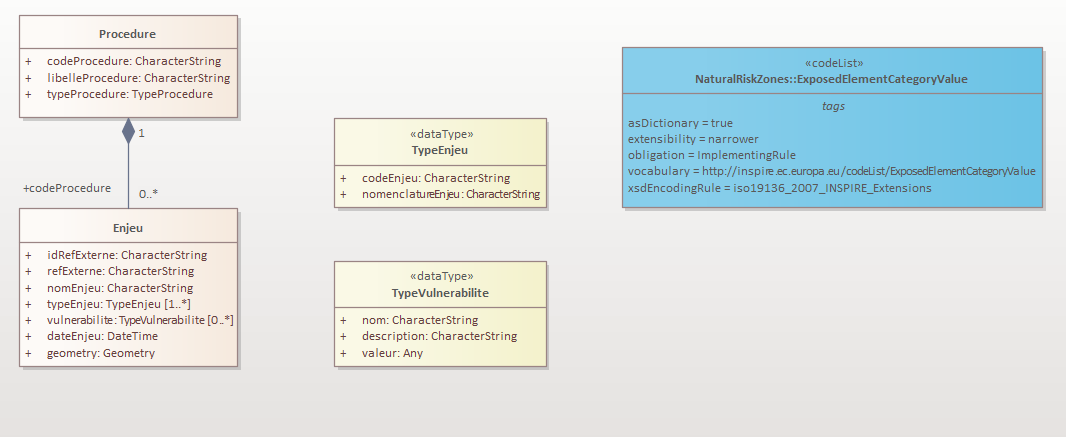
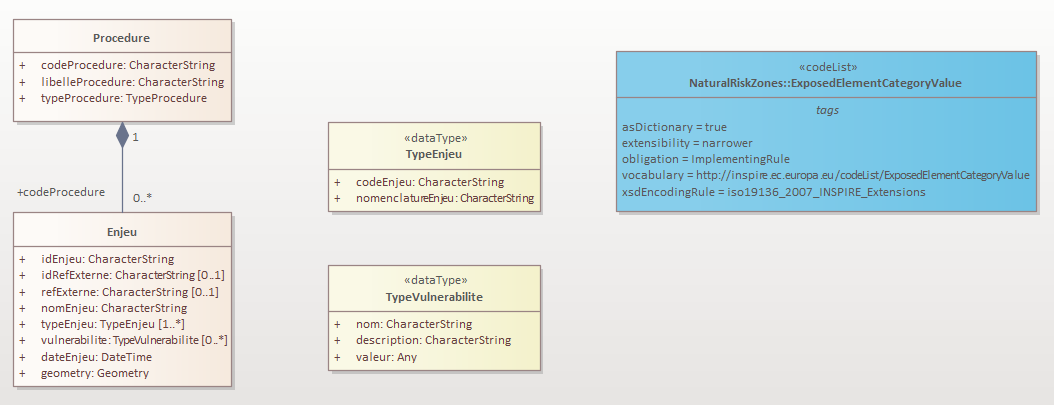
Ajout identifiant idEnjeu pour gérer les saisies spécifiques d'enjeux

diff --git a/standards/Geostandards-risques-commun/Document.md b/standards/Geostandards-risques-commun/Document.md
@@ -683,16 +683,17 @@ La définition de ces nomenclatures sera proposée dans les profils applicatifs 
 
 **Titre** : Enjeu
 
-**Définition** : La classe Enjeu permet de faire état des objets d'enjeu qui sont à représenter dans le cadre de la procédure de prévention des risques. Elle permet d'intégrer des objets issus de référentiels externes ou d'objet en indiquant à minima un nom, le rattachement à une ou plusieurs nomenclatures d'enjeu, une date de collecte, une information sur les vulnérabilités de l'enjeu et une géométrie si on souhaite le faire figurer dans une cartographie et en précisant le nom du référentiel d'origine et l'identifiant de l'objet dans ce référentiel. 
+**Définition** : La classe Enjeu permet de faire état des objets d'enjeu qui sont à représenter dans le cadre de la procédure de prévention des risques. Elle permet d'intégrer des objets issus de référentiels externes ou saisis spécifiquement en indiquant à minima un nom, le rattachement à une ou plusieurs nomenclatures d'enjeu, une date de collecte, une plusieurs éventuelle(s) information(s) sur les vulnérabilités de l'enjeu et une géométrie, en précisant le cas échéant le nom du référentiel d'origine et l'identifiant de l'objet dans ce référentiel. 
 
-**Modélisation géométrique** : Les objets de la classe Enjeu peuvent porter tout type de géométrie selon leurs types et la façon dont ils sont représentés dans leurs référentiels d'orgine.
+**Modélisation géométrique** : Les objets de la classe Enjeu peuvent porter tout type de géométrie selon leurs types et la façon dont ils sont représentés.
 
 **Propriétés** : 
 
 | Nom de la propriété | Définition | Type | Valeurs possibles | Contraintes |
 |-|-|-|-|-|
-| idRefExterne | Identifiant de l'objet dans le référentiel externe d'où il est extrait | CharacterString | Le formalisme de l'identifiant est déterminé par les spécifications du référentiel externe. | 1..1 | 
-| refExterne | Référentiel externe d'où est extrait l'objet. | CharacterString | Saisie Libre. Une restriction sur les référentiels à utiliser pourra être faite dans les profils applicatifs | 1..1 | 
+| idEnjeu | Identifiant de l'objet Enjeu | CharacterString | Deux objets de la classe enjeu ne peuvent avoir la même valeur pour le champ idEnjeu. | 1..1 | 
+| idRefExterne | Identifiant de l'objet dans le référentiel externe d'où il est extrait, si c'est le cas. | CharacterString | Le formalisme de l'identifiant est déterminé par les spécifications du référentiel externe. | 0..1 | 
+| refExterne | Référentiel externe d'où est extrait l'objet, si c'est le cas. | CharacterString | Saisie Libre. Une restriction sur les référentiels à utiliser pourra être faite dans les profils applicatifs | 0..1 | 
 | nomEnjeu | Nom de l'objet d'enjeu. | CharacterString | Saisie libre (si possible en fonction du nom de l'objet dans le référentiel d'où il est extrait). | 1..1 |
 | typeEnjeu | classifications de l'enjeu dans une ou plusieurs nomenclatures d'enjeu. | [TypeEnjeu](#type-de-donnees-typeenjeu) | Valeurs déterminées par les nomenclatures disponibles. | 1..\* |
 | vulnerabilite | Information sur les vulnérabilités de l'enjeu | [TypeVulnerabilite](#type-de-donnees-typevulnerabilite) | Valeurs selon les types de vulnérabilités dont on veut attester. | 0..\* |
